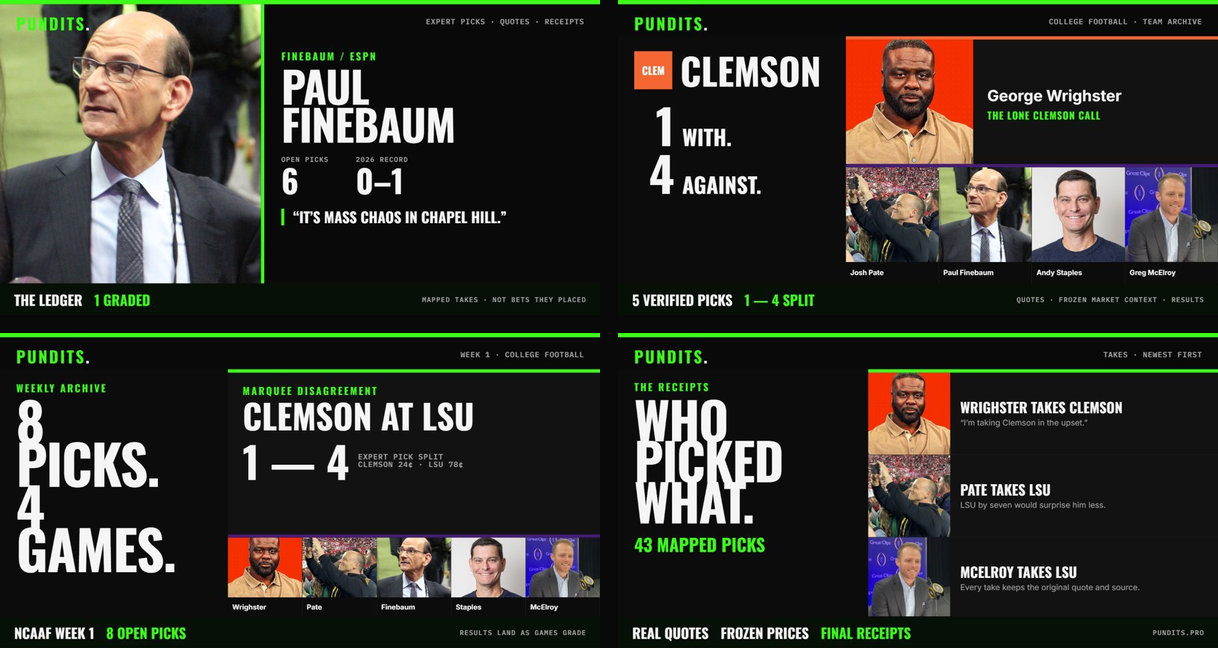
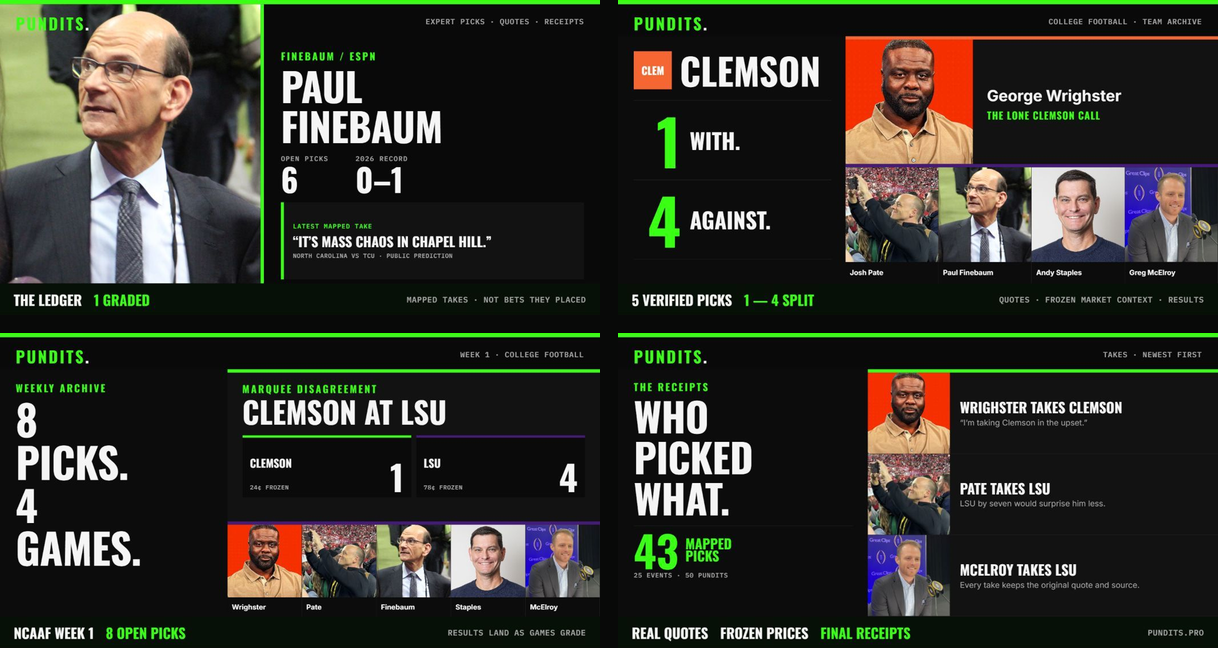
docs(mockup): tighten social card density

diff --git a/docs/mockups/social-template-matrix-2026-09-02.html b/docs/mockups/social-template-matrix-2026-09-02.html
@@ -26,7 +26,7 @@
     .proof { position:absolute; z-index:8; left:0; right:0; bottom:0; height:64px; display:flex; align-items:center; gap:24px; padding:0 28px; background:#071007; }
     .proof strong { font:700 28px/1 Oswald,sans-serif; text-transform:uppercase; }
     .proof .green { color:var(--green); }
-    .proof .note { margin-left:auto; color:var(--muted); font:600 14px/1 Plex,monospace; letter-spacing:.07em; }
+    .proof .note { margin-left:auto; color:var(--muted); font:600 16px/1 Plex,monospace; letter-spacing:.04em; }
     .portrait { display:block; width:100%; height:100%; object-fit:cover; }
     .chip { display:grid; place-items:center; flex:none; width:62px; height:62px; color:#fff; background:var(--orange); font:700 18px/1 Oswald,sans-serif; }
     .kicker { color:var(--green); font:700 20px/1 Oswald,sans-serif; letter-spacing:.16em; text-transform:uppercase; }
@@ -35,21 +35,25 @@
     .pundit .photo { position:absolute; left:0; top:0; bottom:64px; width:44%; overflow:hidden; border-right:7px solid var(--green); }
     .pundit .photo .portrait { object-position:center 24%; }
     .pundit .copy { position:absolute; left:44%; right:0; top:72px; bottom:64px; padding:22px 32px 18px 34px; }
-    .pundit .name { margin-top:10px; font-size:86px; line-height:.88; letter-spacing:-.015em; }
-    .pundit .stats { display:flex; gap:54px; margin-top:28px; }
+    .pundit .name { margin-top:8px; font-size:79px; line-height:1.02; letter-spacing:-.01em; }
+    .pundit .stats { display:flex; gap:54px; margin-top:18px; }
     .pundit .stat span { display:block; color:var(--muted); font:600 14px/1 Plex,monospace; letter-spacing:.08em; text-transform:uppercase; }
     .pundit .stat strong { display:block; margin-top:5px; font:700 64px/.9 Oswald,sans-serif; }
-    .pundit .latest { margin-top:29px; padding-left:18px; border-left:6px solid var(--green); color:var(--ink); font:700 29px/1.15 Oswald,sans-serif; text-transform:uppercase; }
+    .pundit .latest { display:flex; flex-direction:column; justify-content:center; min-height:154px; margin-top:18px; padding:16px 18px; border-left:6px solid var(--green); background:var(--card); }
+    .pundit .latest span { color:var(--green); font:600 13px/1 Plex,monospace; letter-spacing:.08em; text-transform:uppercase; }
+    .pundit .latest strong { margin-top:9px; color:var(--ink); font:700 27px/1.12 Oswald,sans-serif; text-transform:uppercase; }
+    .pundit .latest small { margin-top:8px; color:var(--muted); font:600 12px/1 Plex,monospace; letter-spacing:.05em; text-transform:uppercase; }
 
     /* Team — Editorial archetype */
     .team .left { position:absolute; left:0; top:64px; bottom:64px; width:455px; padding:30px 28px 20px 32px; background:#0b0c0b; }
     .team .team-title { display:flex; align-items:center; gap:16px; }
     .team .team-title .chip { width:76px; height:76px; font-size:21px; }
     .team .team-name { font-size:74px; line-height:.88; }
-    .team .count-block { margin-top:31px; }
-    .team .count-line { display:flex; align-items:baseline; gap:16px; font-family:Oswald,sans-serif; text-transform:uppercase; }
-    .team .count-line strong { width:80px; font-size:96px; line-height:.82; text-align:right; }
-    .team .count-line span { font-size:43px; }
+    .team .count-block { display:grid; height:318px; margin-top:22px; border-top:1px solid #2b2b2b; border-bottom:1px solid #2b2b2b; }
+    .team .count-line { display:flex; align-items:center; gap:18px; min-height:0; padding:2px 0; border-bottom:1px solid #2b2b2b; font-family:Oswald,sans-serif; text-transform:uppercase; }
+    .team .count-line:last-child { border-bottom:0; }
+    .team .count-line strong { width:94px; color:var(--green); font-size:126px; line-height:.82; text-align:right; }
+    .team .count-line span { font-size:44px; line-height:.95; }
     .team .right { position:absolute; left:455px; right:0; top:64px; bottom:64px; display:grid; grid-template-rows:255px 1fr; }
     .team .featured { display:grid; grid-template-columns:255px 1fr; border-top:7px solid var(--orange); }
     .team .featured .portrait { object-position:center 22%; }
@@ -67,22 +71,28 @@
 
     /* Week — Editorial archive archetype */
     .week .left { position:absolute; left:0; top:64px; bottom:64px; width:455px; padding:27px 26px 16px 32px; background:#0b0c0b; }
-    .week .week-title { margin-top:12px; font-size:109px; line-height:.78; letter-spacing:-.02em; }
-    .week .right { position:absolute; left:455px; right:0; top:64px; bottom:64px; display:grid; grid-template-rows:1fr 164px; }
-    .week .marquee { position:relative; padding:26px 30px; border-top:7px solid var(--green); background:var(--card); }
-    .week .marquee h2 { margin:7px 0 0; font:700 68px/.92 Oswald,sans-serif; text-transform:uppercase; }
-    .week .split { display:flex; align-items:center; gap:18px; margin-top:26px; }
-    .week .split strong { font:700 86px/.8 Oswald,sans-serif; }
-    .week .split span { color:var(--muted); font:600 15px/1 Plex,monospace; letter-spacing:.07em; }
+    .week .week-title { margin-top:8px; font-size:84px; line-height:1.02; letter-spacing:-.01em; }
+    .week .right { position:absolute; left:455px; right:0; top:64px; bottom:64px; display:grid; grid-template-rows:1fr 190px; }
+    .week .marquee { position:relative; padding:22px 30px 18px; border-top:7px solid var(--green); background:var(--card); }
+    .week .marquee h2 { margin:5px 0 0; font:700 60px/1 Oswald,sans-serif; text-transform:uppercase; }
+    .week .split { display:grid; grid-template-columns:1fr 1fr; gap:10px; margin-top:18px; }
+    .week .split-side { display:grid; grid-template-columns:1fr auto; grid-template-rows:auto auto; align-items:end; min-width:0; min-height:124px; padding:13px 15px; border-top:5px solid var(--green); background:#090a09; }
+    .week .split-side.lsu { border-color:var(--purple); }
+    .week .split-side span { color:var(--ink); font:700 22px/1 Oswald,sans-serif; text-transform:uppercase; }
+    .week .split-side strong { grid-row:1 / span 2; grid-column:2; font:700 70px/.82 Oswald,sans-serif; }
+    .week .split-side small { margin-top:6px; color:var(--muted); font:600 12px/1 Plex,monospace; letter-spacing:.05em; text-transform:uppercase; }
     .week .faces { display:grid; min-height:0; overflow:hidden; grid-template-columns:repeat(5,1fr); border-top:7px solid var(--purple); }
     .week .faces .support { grid-template-rows:1fr 38px; }
 
     /* Collection — Editorial route archetype */
     .collection .left { position:absolute; left:0; top:64px; bottom:64px; width:500px; padding:25px 30px 18px 32px; background:#0b0c0b; }
-    .collection .headline { margin-top:13px; font-size:102px; line-height:.8; letter-spacing:-.02em; }
-    .collection .count { margin-top:29px; color:var(--green); font:700 35px/1 Oswald,sans-serif; text-transform:uppercase; }
-    .collection .feed { position:absolute; left:500px; right:0; top:64px; bottom:64px; display:grid; grid-template-rows:repeat(3,1fr); border-top:7px solid var(--green); }
-    .feed-row { display:grid; grid-template-columns:164px 1fr; border-bottom:1px solid #292929; background:var(--card); }
+    .collection .headline { margin-top:7px; font-size:80px; line-height:1.02; letter-spacing:-.01em; }
+    .collection .count { display:flex; align-items:center; gap:14px; margin-top:16px; padding-top:12px; border-top:1px solid #2b2b2b; color:var(--green); text-transform:uppercase; }
+    .collection .count strong { font:700 86px/.82 Oswald,sans-serif; }
+    .collection .count span { font:700 27px/.92 Oswald,sans-serif; }
+    .collection .meta { margin-top:9px; color:var(--muted); font:600 13px/1 Plex,monospace; letter-spacing:.06em; text-transform:uppercase; }
+    .collection .feed { position:absolute; left:500px; right:0; top:64px; bottom:64px; display:grid; min-height:0; overflow:hidden; grid-template-rows:repeat(3,minmax(0,1fr)); border-top:7px solid var(--green); }
+    .feed-row { display:grid; min-height:0; overflow:hidden; grid-template-columns:164px 1fr; border-bottom:1px solid #292929; background:var(--card); }
     .feed-row .portrait { object-position:center 22%; }
     .feed-row.pate .portrait { object-position:center 53%; }
     .feed-copy { display:flex; flex-direction:column; justify-content:center; padding:12px 20px; }
@@ -99,7 +109,7 @@
       <div class="kicker">Finebaum / ESPN</div>
       <div class="name display">Paul<br>Finebaum</div>
       <div class="stats"><div class="stat"><span>Open picks</span><strong>6</strong></div><div class="stat"><span>2026 record</span><strong>0–1</strong></div></div>
-      <div class="latest">“It’s mass chaos in Chapel Hill.”</div>
+      <div class="latest"><span>Latest mapped take</span><strong>“It’s mass chaos in Chapel Hill.”</strong><small>North Carolina vs TCU · public prediction</small></div>
     </div>
     <div class="proof"><strong>THE LEDGER</strong><strong class="green">1 GRADED</strong><span class="note">MAPPED TAKES · NOT BETS THEY PLACED</span></div>
   </section>
@@ -126,7 +136,7 @@
     <div class="brand">PUNDITS<span>.</span></div><div class="context">WEEK 1 · COLLEGE FOOTBALL</div>
     <div class="left"><div class="kicker">Weekly archive</div><div class="week-title display">8<br>picks.<br>4<br>games.</div></div>
     <div class="right">
-      <div class="marquee"><div class="kicker">Marquee disagreement</div><h2>Clemson at LSU</h2><div class="split"><strong>1 — 4</strong><span>EXPERT PICK SPLIT<br>CLEMSON 24¢ · LSU 78¢</span></div></div>
+      <div class="marquee"><div class="kicker">Marquee disagreement</div><h2>Clemson at LSU</h2><div class="split"><div class="split-side"><span>Clemson</span><strong>1</strong><small>24¢ frozen</small></div><div class="split-side lsu"><span>LSU</span><strong>4</strong><small>78¢ frozen</small></div></div></div>
       <div class="faces">
         <div class="support"><img class="portrait" src="/public/photos/wrighster.jpg" alt="George Wrighster" /><b>Wrighster</b></div>
         <div class="support pate"><img class="portrait" src="/public/photos/pate.jpg" alt="Josh Pate" /><b>Pate</b></div>
@@ -140,7 +150,7 @@
 
   <section class="artboard collection" data-card="collection">
     <div class="brand">PUNDITS<span>.</span></div><div class="context">TAKES · NEWEST FIRST</div>
-    <div class="left"><div class="kicker">The receipts</div><div class="headline display">Who<br>picked<br>what.</div><div class="count">43 mapped picks</div></div>
+    <div class="left"><div class="kicker">The receipts</div><div class="headline display">Who<br>picked<br>what.</div><div class="count"><strong>43</strong><span>mapped<br>picks</span></div><div class="meta">25 events · 50 pundits</div></div>
     <div class="feed">
       <div class="feed-row"><img class="portrait" src="/public/photos/wrighster.jpg" alt="George Wrighster" /><div class="feed-copy"><b>Wrighster takes Clemson</b><span>“I’m taking Clemson in the upset.”</span></div></div>
       <div class="feed-row pate"><img class="portrait" src="/public/photos/pate.jpg" alt="Josh Pate" /><div class="feed-copy"><b>Pate takes LSU</b><span>LSU by seven would surprise him less.</span></div></div>
